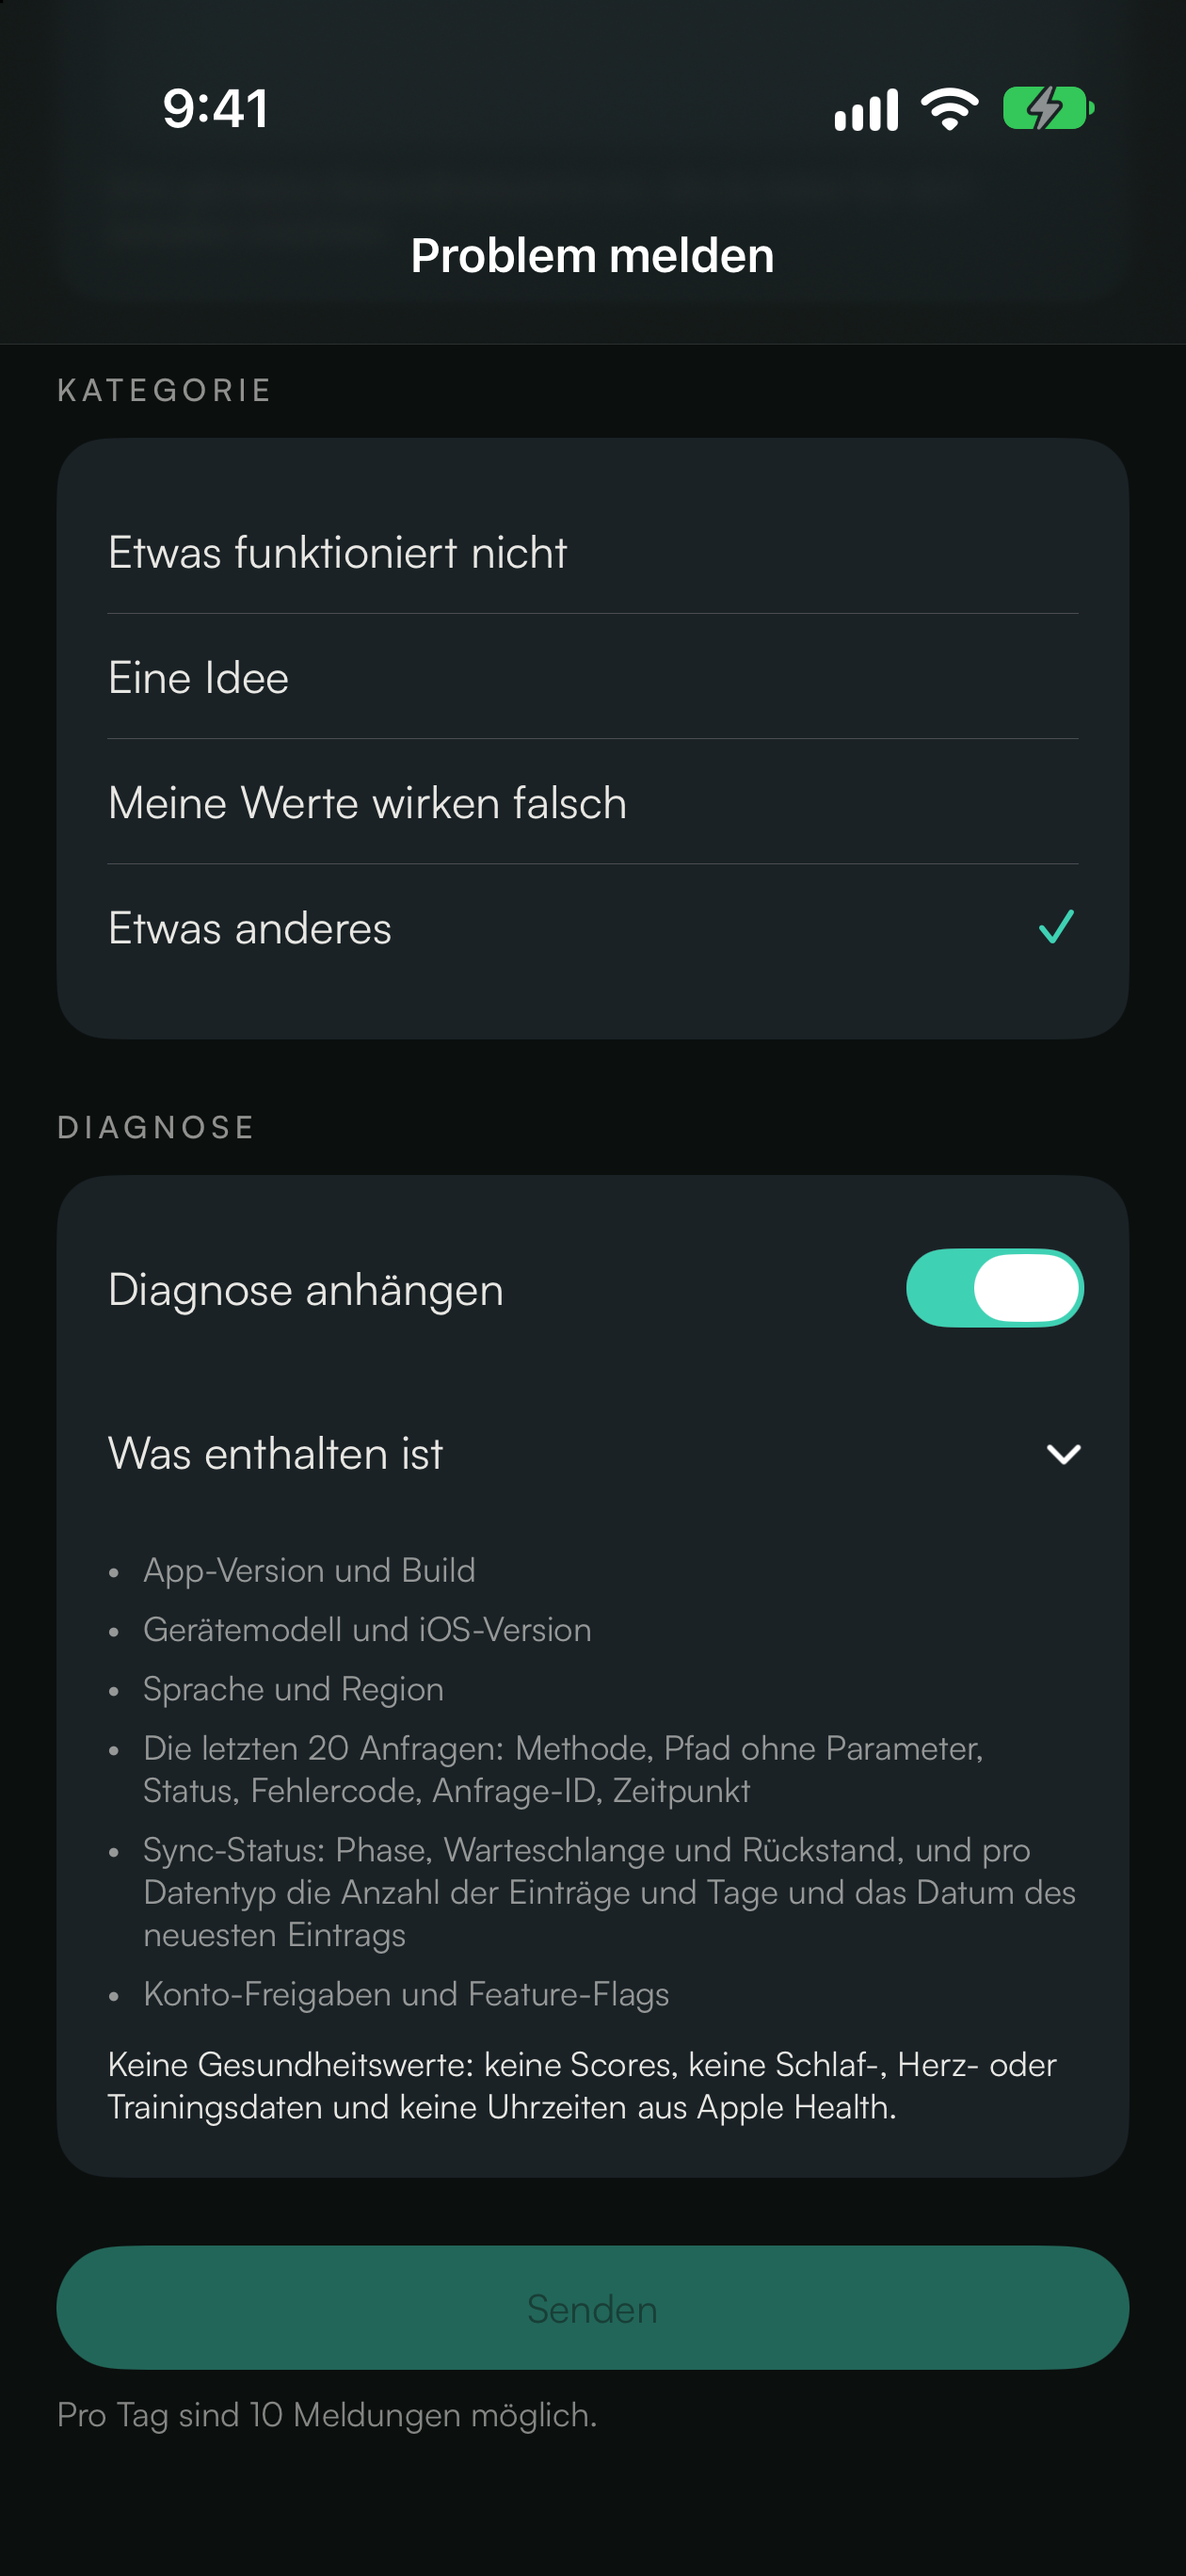
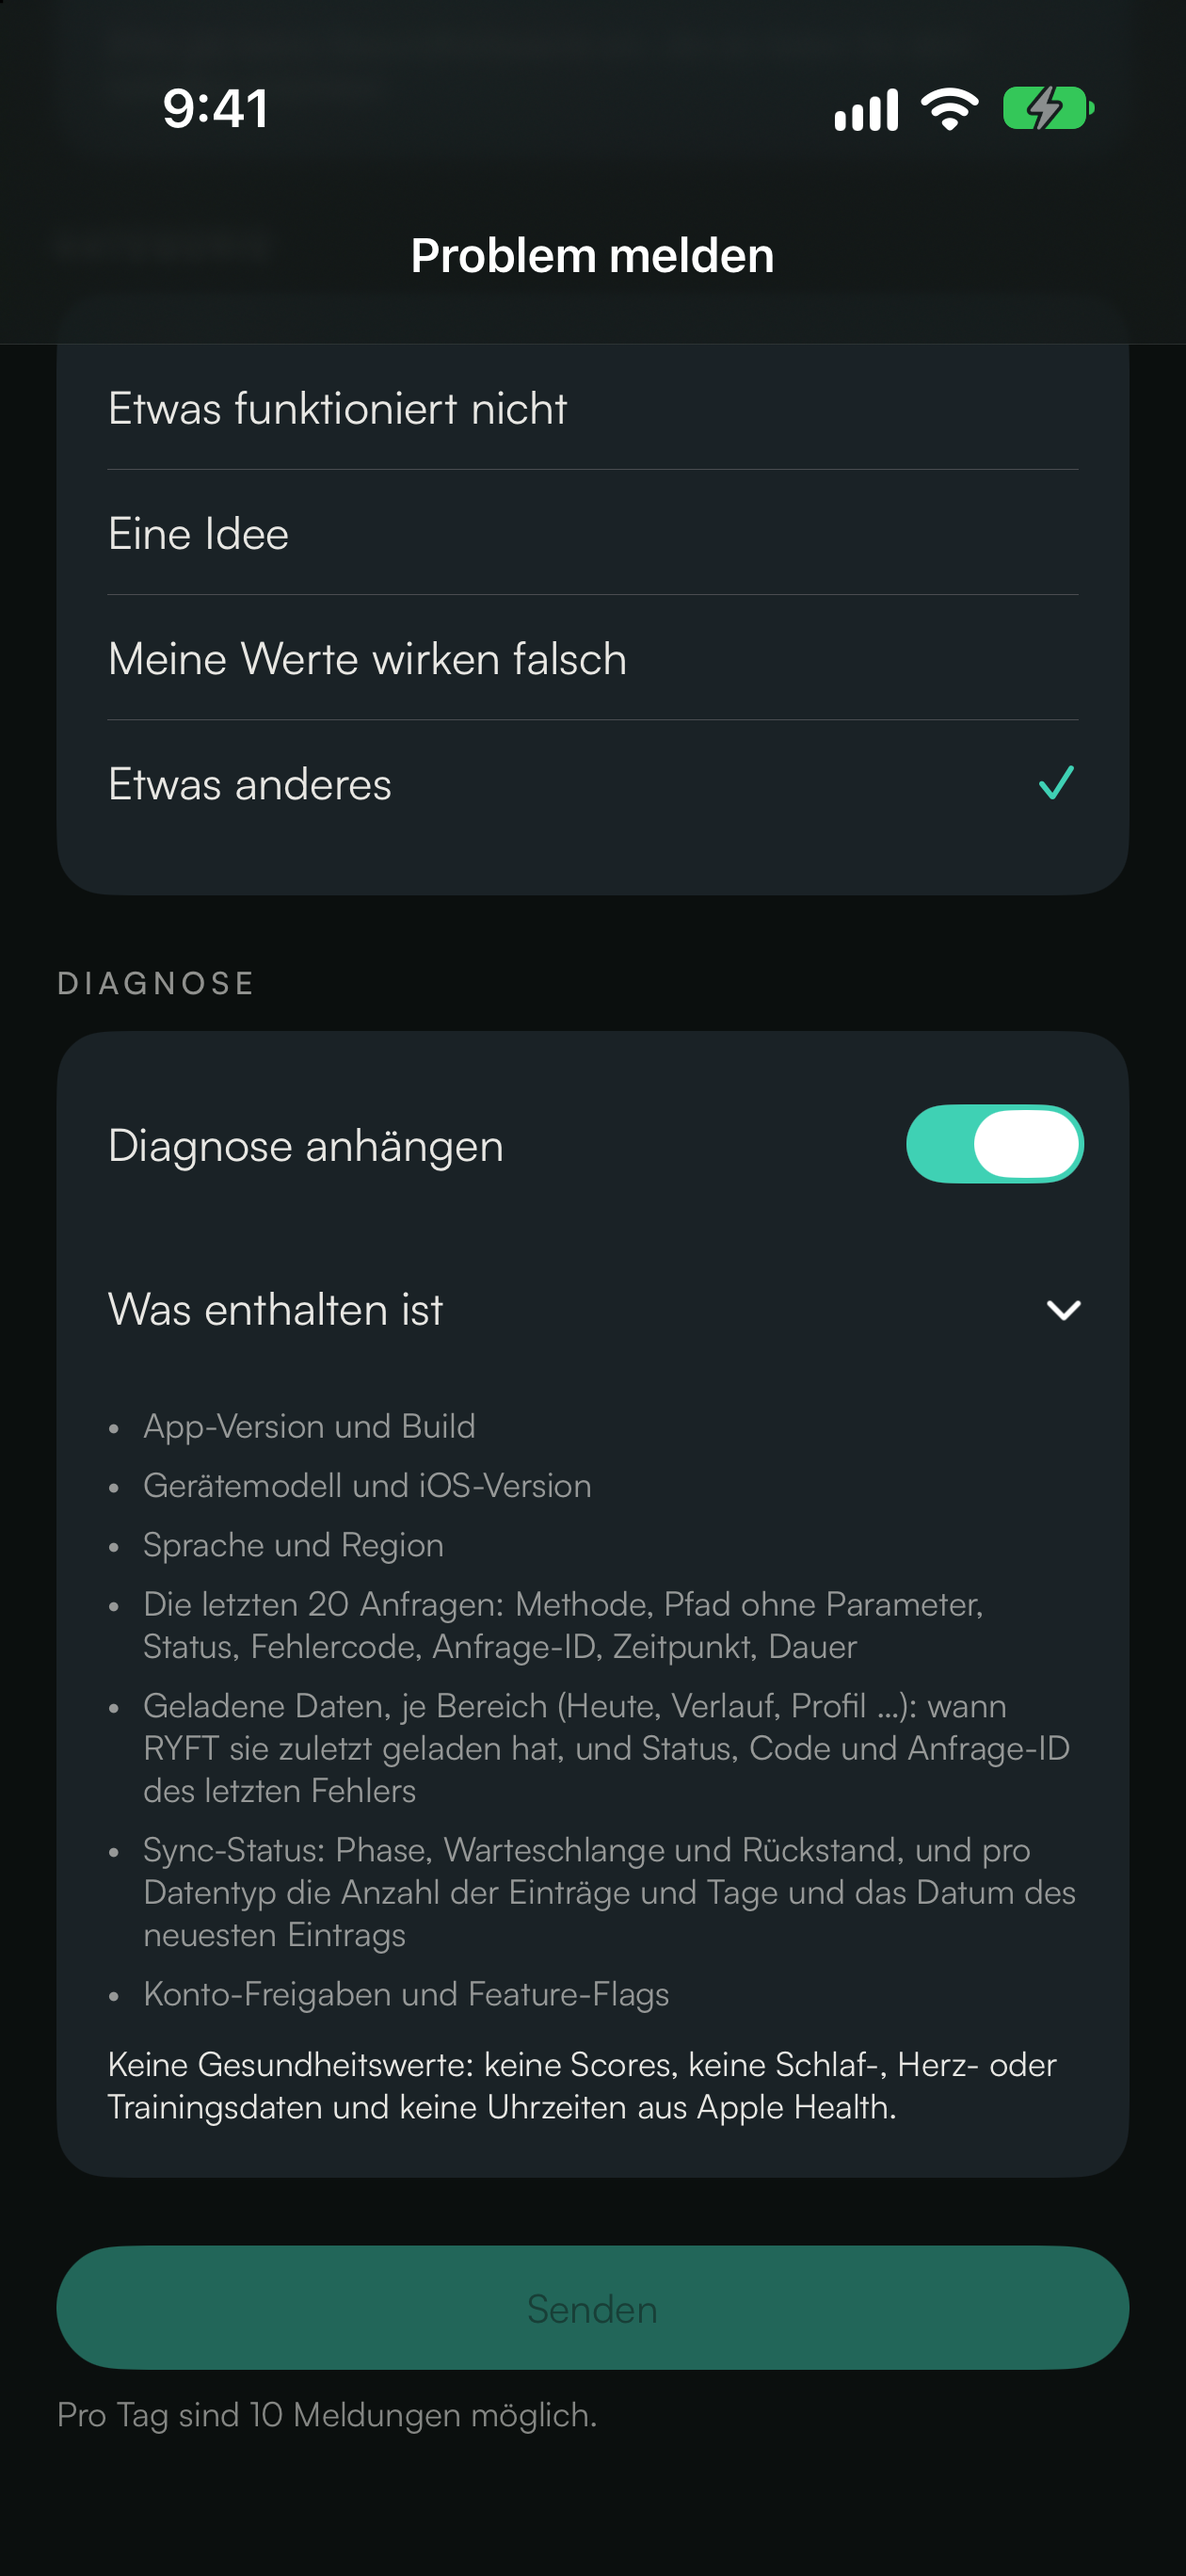
docs: privacy notes and changelog for per-area loads, durations, Send to RYFT
- PrivacyInfo.xcprivacy (comment only) and APP_STORE_METADATA.md: the
  report's diagnostics also hold request durations and, per area, the
  last load time with the last error's status, code and request ID.
  Durations are Other Diagnostic Data (network timings for support), not
  Performance Data; no new data type.
- CHANGELOG: Report a problem's line names per-area load times and
  request durations; Details → Send to RYFT has its own line.
- Screenshots: "What's included" re-captured (en, de; dark, light).

diff --git a/docs/APP_STORE_METADATA.md b/docs/APP_STORE_METADATA.md
@@ -158,8 +158,12 @@ Must match `PrivacyInfo.xcprivacy` and the code (security-privacy-reviewer check
 | Identifiers → User ID | Yes | Yes | No | App Functionality |
 | Identifiers → Device ID (install ID sent with sync) | Yes | Yes | No | App Functionality |
 | User Content → Other (workout notes, journal answers, workout logs, feedback text) | Yes | Yes | No | App Functionality |
-| Diagnostics → Other Diagnostic Data (Report a problem → "Include diagnostics": app version, device, iOS, locale, the last 20 requests without query strings, sync phase and counts with day-precision dates, gates, flags) | Yes, when the user sends a report with diagnostics on (the default) | Yes | No | App Functionality |
+| Diagnostics → Other Diagnostic Data (Report a problem → "Include diagnostics": app version, device, iOS, locale, the last 20 requests without query strings and with their durations, per area (Today, History, Profile …) the last load time and the last error's status, code and request ID, sync phase and counts with day-precision dates, gates, flags) | Yes, when the user sends a report with diagnostics on (the default) | Yes | No | App Functionality |
 | Diagnostics → Crash Data | No | — | — | — |
+
+Request durations are declared as Other Diagnostic Data, not Performance Data: they are network-diagnostic timings
+that support reads next to a request's status and ID, while Apple's Performance Data means app performance such as
+launch time, hang rate or energy use.
 
 "Data Used to Track You": **none**. If any row changes, update the label and the privacy policy together.
 

diff --git a/CHANGELOG.md b/CHANGELOG.md
@@ -39,8 +39,9 @@ Store "What's New".
   Sleep → Bedtime, the widget), reminds you to wind down, and can wake you with a real alarm
   (iOS 26). The next morning, Sleep shows how close the night came to the plan.
 - Profile → Report a problem: write to RYFT from the app, optionally with diagnostics (app version,
-  device, the last requests and the sync status, never health values). Saved and sent later when
-  you're offline.
+  device, the last requests, per-area load times and request durations, and the sync status, never
+  health values). Saved and sent later when you're offline.
+- From Today's error card, Details → Send to RYFT opens Report a problem with what failed.
 
 ### Changed
 - Your baseline sleep need and maximum heart rate can be changed where you see them: in
